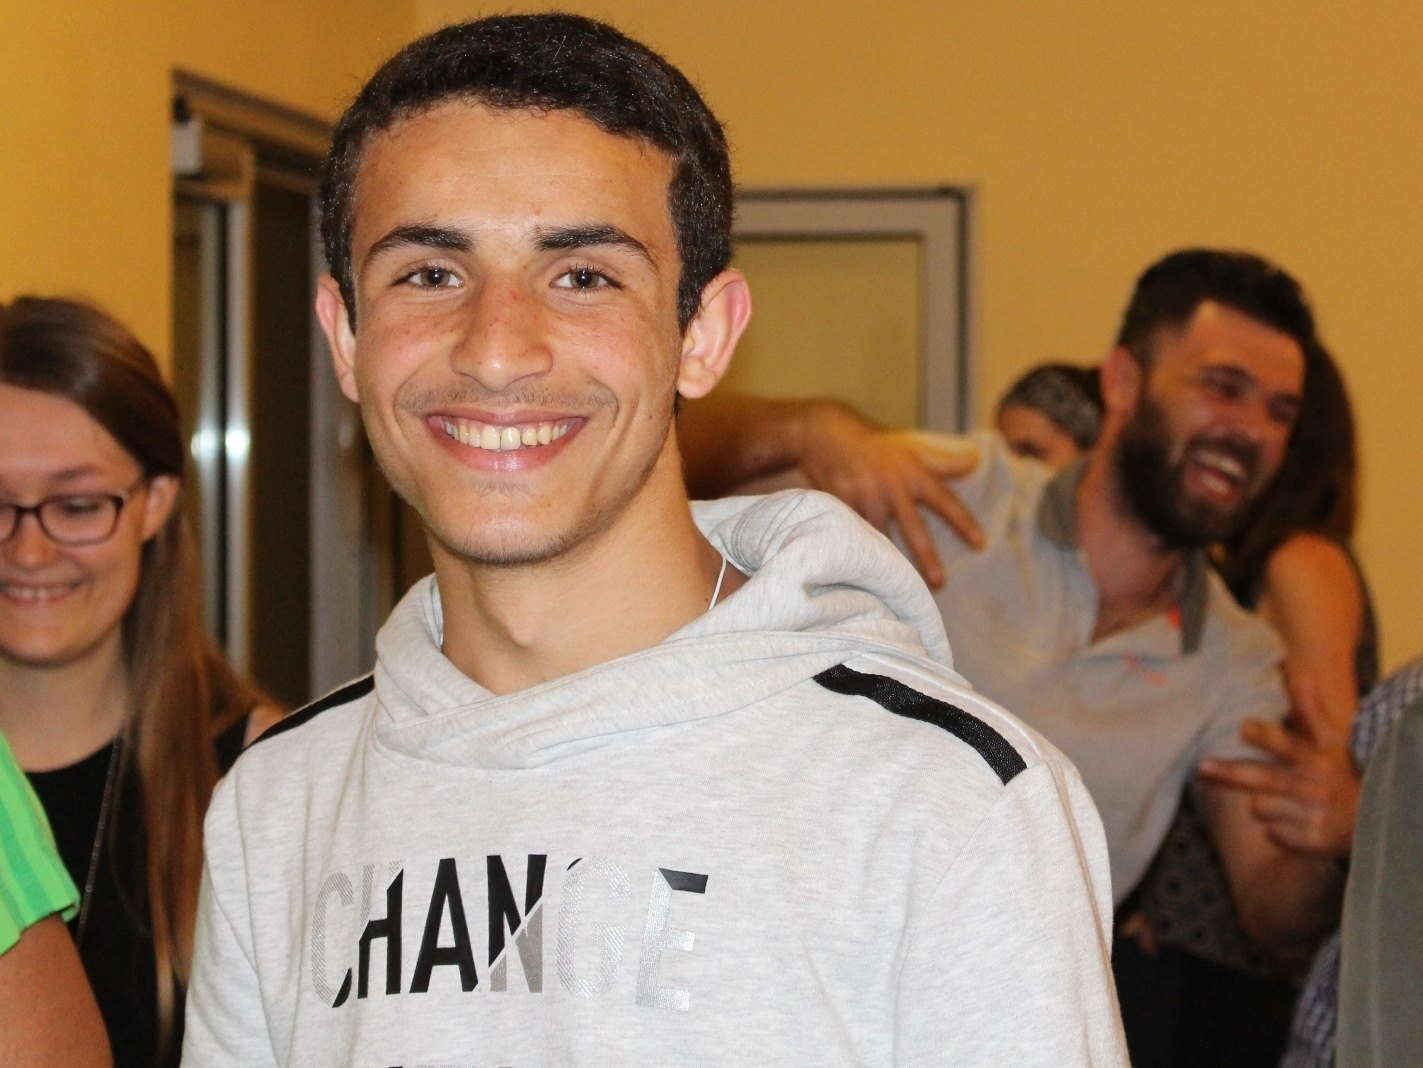
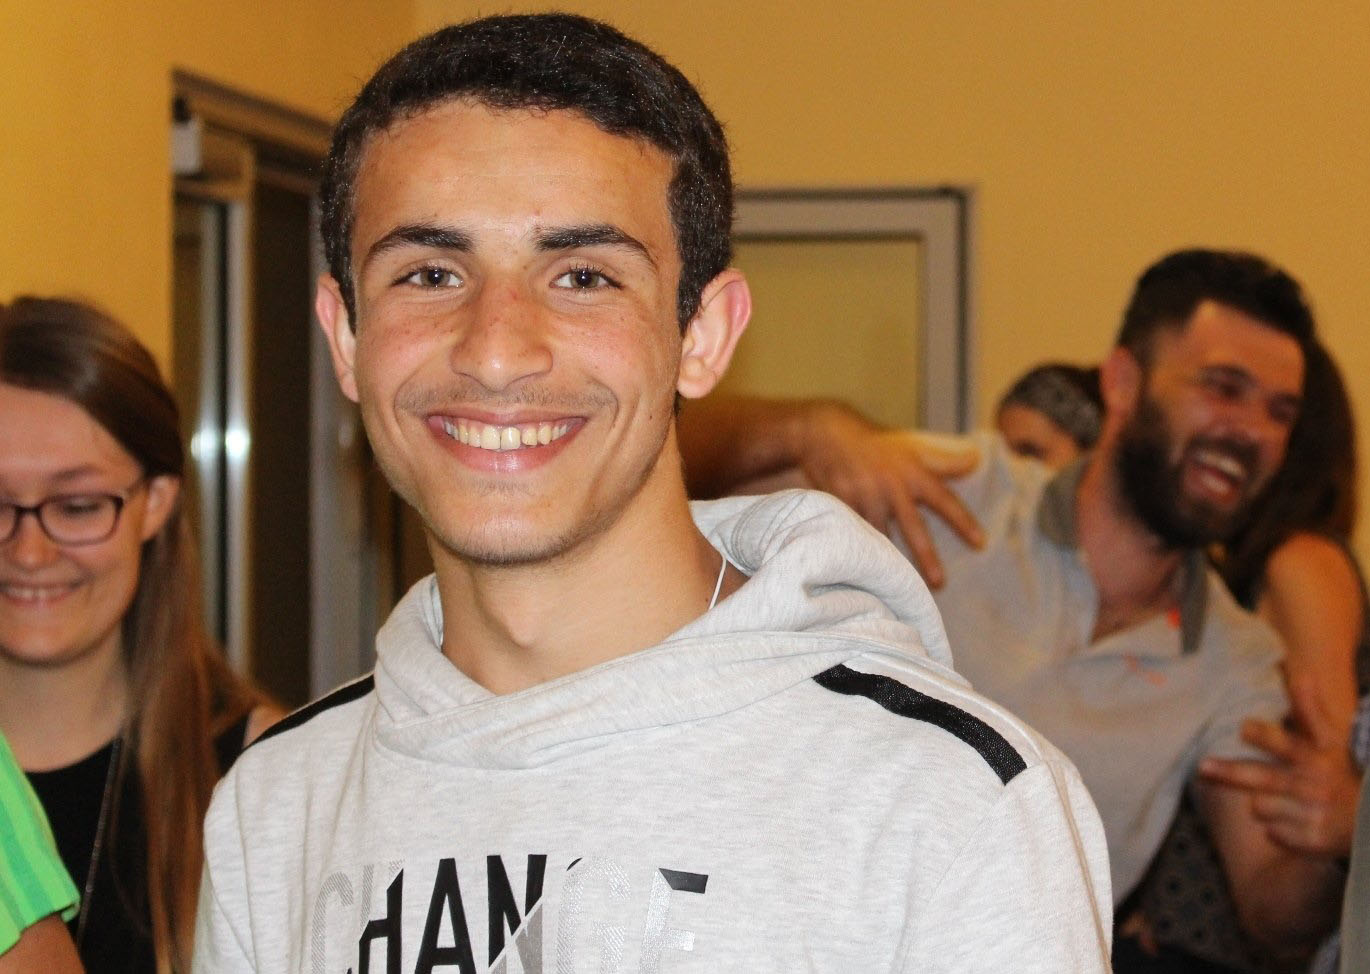
bugfix

diff --git a/src/components/Participate.vue b/src/components/Participate.vue
@@ -65,7 +65,16 @@ figure {
 }
 figure:nth-child(2) {
   padding-inline: 4rem;
+  img {
+    object-position: 0 10%;
+  }
 }
+figure:nth-child(3) {
+  img {
+    object-position: 0 10%;
+  }
+}
+
 figcaption {
   margin-block-start: 2rem;
 }
@@ -113,7 +122,6 @@ a {
 }
 
 .image-container > img {
-  //width: 100%;
   padding: 6.5% 4.1% 13% 4.5%;
   object-fit: cover;
   aspect-ratio: 1.3;
